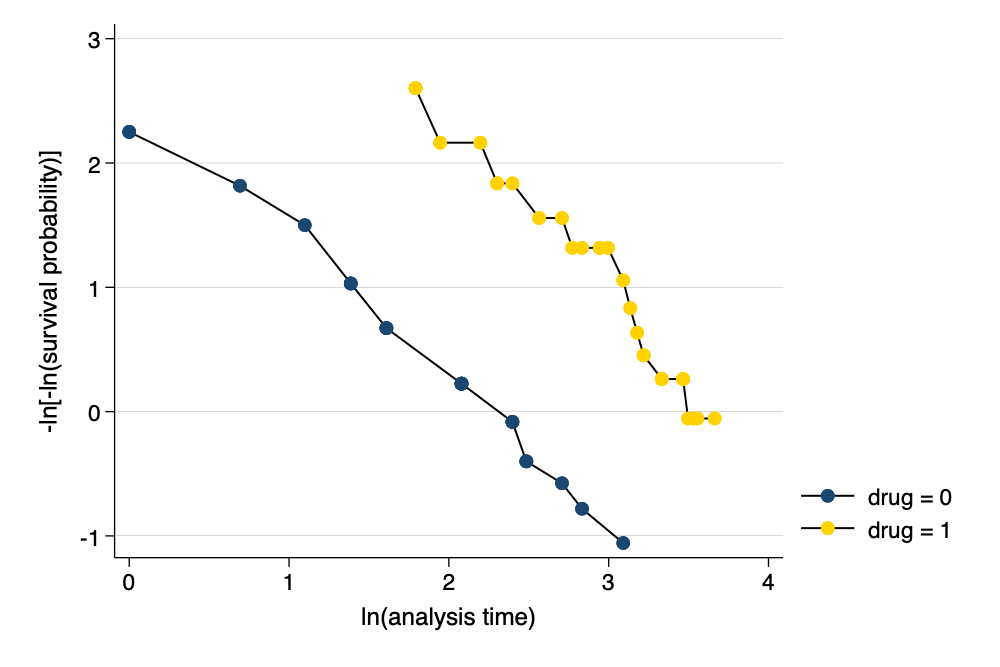
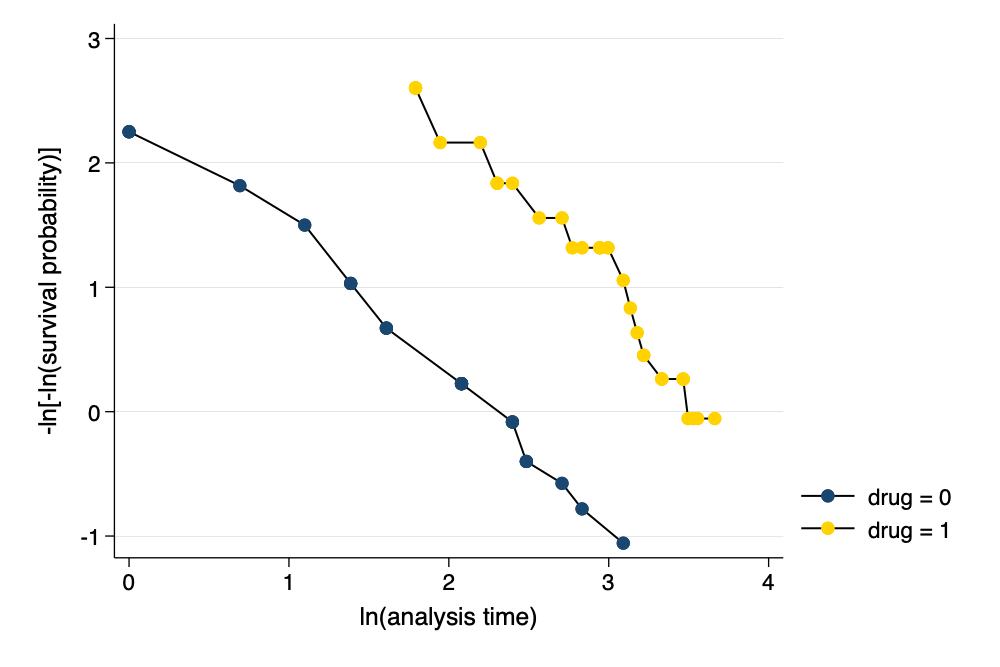
whoops; accidental re-render

diff --git a/categorical/survival-analysis-and-event-history/Cox-proportional-hazards-model.html b/categorical/survival-analysis-and-event-history/Cox-proportional-hazards-model.html
@@ -190,11 +190,11 @@ table tbody:last-child tr:last-child td {border-bottom:1px solid black;}
 <header id="title-block-header">
 <h1 class="title">Cox Proportional Hazards Model</h1>
 <p class="author">Andy Grogan-Kaylor</p>
-<p class="date">18 Jun 2021</p>
+<p class="date">5 Dec 2021</p>
 </header>
 <style>body {max-width: 90%} h1 {color: #00274C;} h2 {color: #2F65A7;} blockquote {border-left: 5px solid #ffcb05; margin: 1.5em 10px; padding: 0.5em 10px;}</style>
 <h1 id="cox-proportional-hazards-model">Cox Proportional Hazards Model</h1>
-<h1 id="formula">Formula</h1>
+<h1 id="formula-for-the-hazard">Formula for the Hazard</h1>
 <p><span class="math inline">\(h(t)\)</span> the rate of occurrence.</p>
 <p><span class="math display">\[
     h(t) = \lim_{\delta\to\infty} \frac{\text{probability of having an event before time } t + \delta}{\delta}
@@ -244,10 +244,10 @@ Observed time interval: (0, studytime]
 Contains data from https://www.stata-press.com/data/r17/drugtr.dta
  Observations:            48                  Patient survival in drug trial
     Variables:             8                  3 Mar 2020 02:12
-────────────────────────────────────────────────────────────────────────────────────────────────────
+───────────────────────────────────────────────────────────────────────────────────────────────────
 Variable      Storage   Display    Value
     name         type    format    label      Variable label
-────────────────────────────────────────────────────────────────────────────────────────────────────
+───────────────────────────────────────────────────────────────────────────────────────────────────
 studytime       byte    %8.0g                 Months to death or end of exp.
 died            byte    %8.0g                 1 if patient died
 drug            byte    %8.0g                 Drug type (0=placebo)
@@ -256,7 +256,7 @@ _st             byte    %8.0g                 1 if record is to be used; 0 other
 _d              byte    %8.0g                 1 if failure; 0 if censored
 _t              byte    %10.0g                Analysis time when record ends
 _t0             byte    %10.0g                Analysis time when record begins
-────────────────────────────────────────────────────────────────────────────────────────────────────
+───────────────────────────────────────────────────────────────────────────────────────────────────
 Sorted by: 
 </pre>
 <h2 id="kaplan-meier-survivor-function-per-gabriela-ortiz-stata">Kaplan-Meier Survivor Function (per Gabriela Ortiz, Stata)</h2>
@@ -269,8 +269,9 @@ Sorted by:
   Analysis time _t: studytime
 </pre>
 <pre class='stata'>. graph export survival0.png, width(1000) replace
-file /Users/agrogan/Desktop/newstuff/categorical/survival-analysis-and-event-history/survival0.png
-    saved as PNG format
+file
+    /Users/agrogan/Desktop/GitHub/newstuff/categorical/survival-analysis-and-event-history/surviv
+    > al0.png saved as PNG format
 </pre>
 <figure>
 <img src="survival0.png" style="width:50.0%" alt="Kaplan-Meier Survivor Function" /><figcaption aria-hidden="true">Kaplan-Meier Survivor Function</figcaption>
@@ -307,8 +308,9 @@ Log likelihood = -83.323546                             Prob > chi2   = 0.0000
 <pre class='stata'>. stcurve, survival scheme(michigan) // survival curve
 </pre>
 <pre class='stata'>. graph export survival1.png, width(1000) replace
-file /Users/agrogan/Desktop/newstuff/categorical/survival-analysis-and-event-history/survival1.png
-    saved as PNG format
+file
+    /Users/agrogan/Desktop/GitHub/newstuff/categorical/survival-analysis-and-event-history/surviv
+    > al1.png saved as PNG format
 </pre>
 <figure>
 <img src="survival1.png" style="width:50.0%" alt="Survival Curve" /><figcaption aria-hidden="true">Survival Curve</figcaption>
@@ -316,8 +318,9 @@ file /Users/agrogan/Desktop/newstuff/categorical/survival-analysis-and-event-his
 <pre class='stata'>. stcurve, survival at1(drug=0) at2(drug=1) scheme(michigan) // survival curve by group
 </pre>
 <pre class='stata'>. graph export survival2.png, width(1000) replace
-file /Users/agrogan/Desktop/newstuff/categorical/survival-analysis-and-event-history/survival2.png
-    saved as PNG format
+file
+    /Users/agrogan/Desktop/GitHub/newstuff/categorical/survival-analysis-and-event-history/surviv
+    > al2.png saved as PNG format
 </pre>
 <figure>
 <img src="survival2.png" style="width:50.0%" alt="Survival Curve by Drug Group" /><figcaption aria-hidden="true">Survival Curve by Drug Group</figcaption>
@@ -340,8 +343,9 @@ Time function: Analysis time
   Analysis time _t: studytime
 </pre>
 <pre class='stata'>. graph export ph.png, width(1000) replace
-file /Users/agrogan/Desktop/newstuff/categorical/survival-analysis-and-event-history/ph.png saved
-    as PNG format
+file
+    /Users/agrogan/Desktop/GitHub/newstuff/categorical/survival-analysis-and-event-history/ph.png
+    saved as PNG format
 </pre>
 <figure>
 <img src="ph.png" style="width:50.0%" alt="Graphical Assessment of Proportional Hazards Assumptions" /><figcaption aria-hidden="true">Graphical Assessment of Proportional Hazards Assumptions</figcaption>
